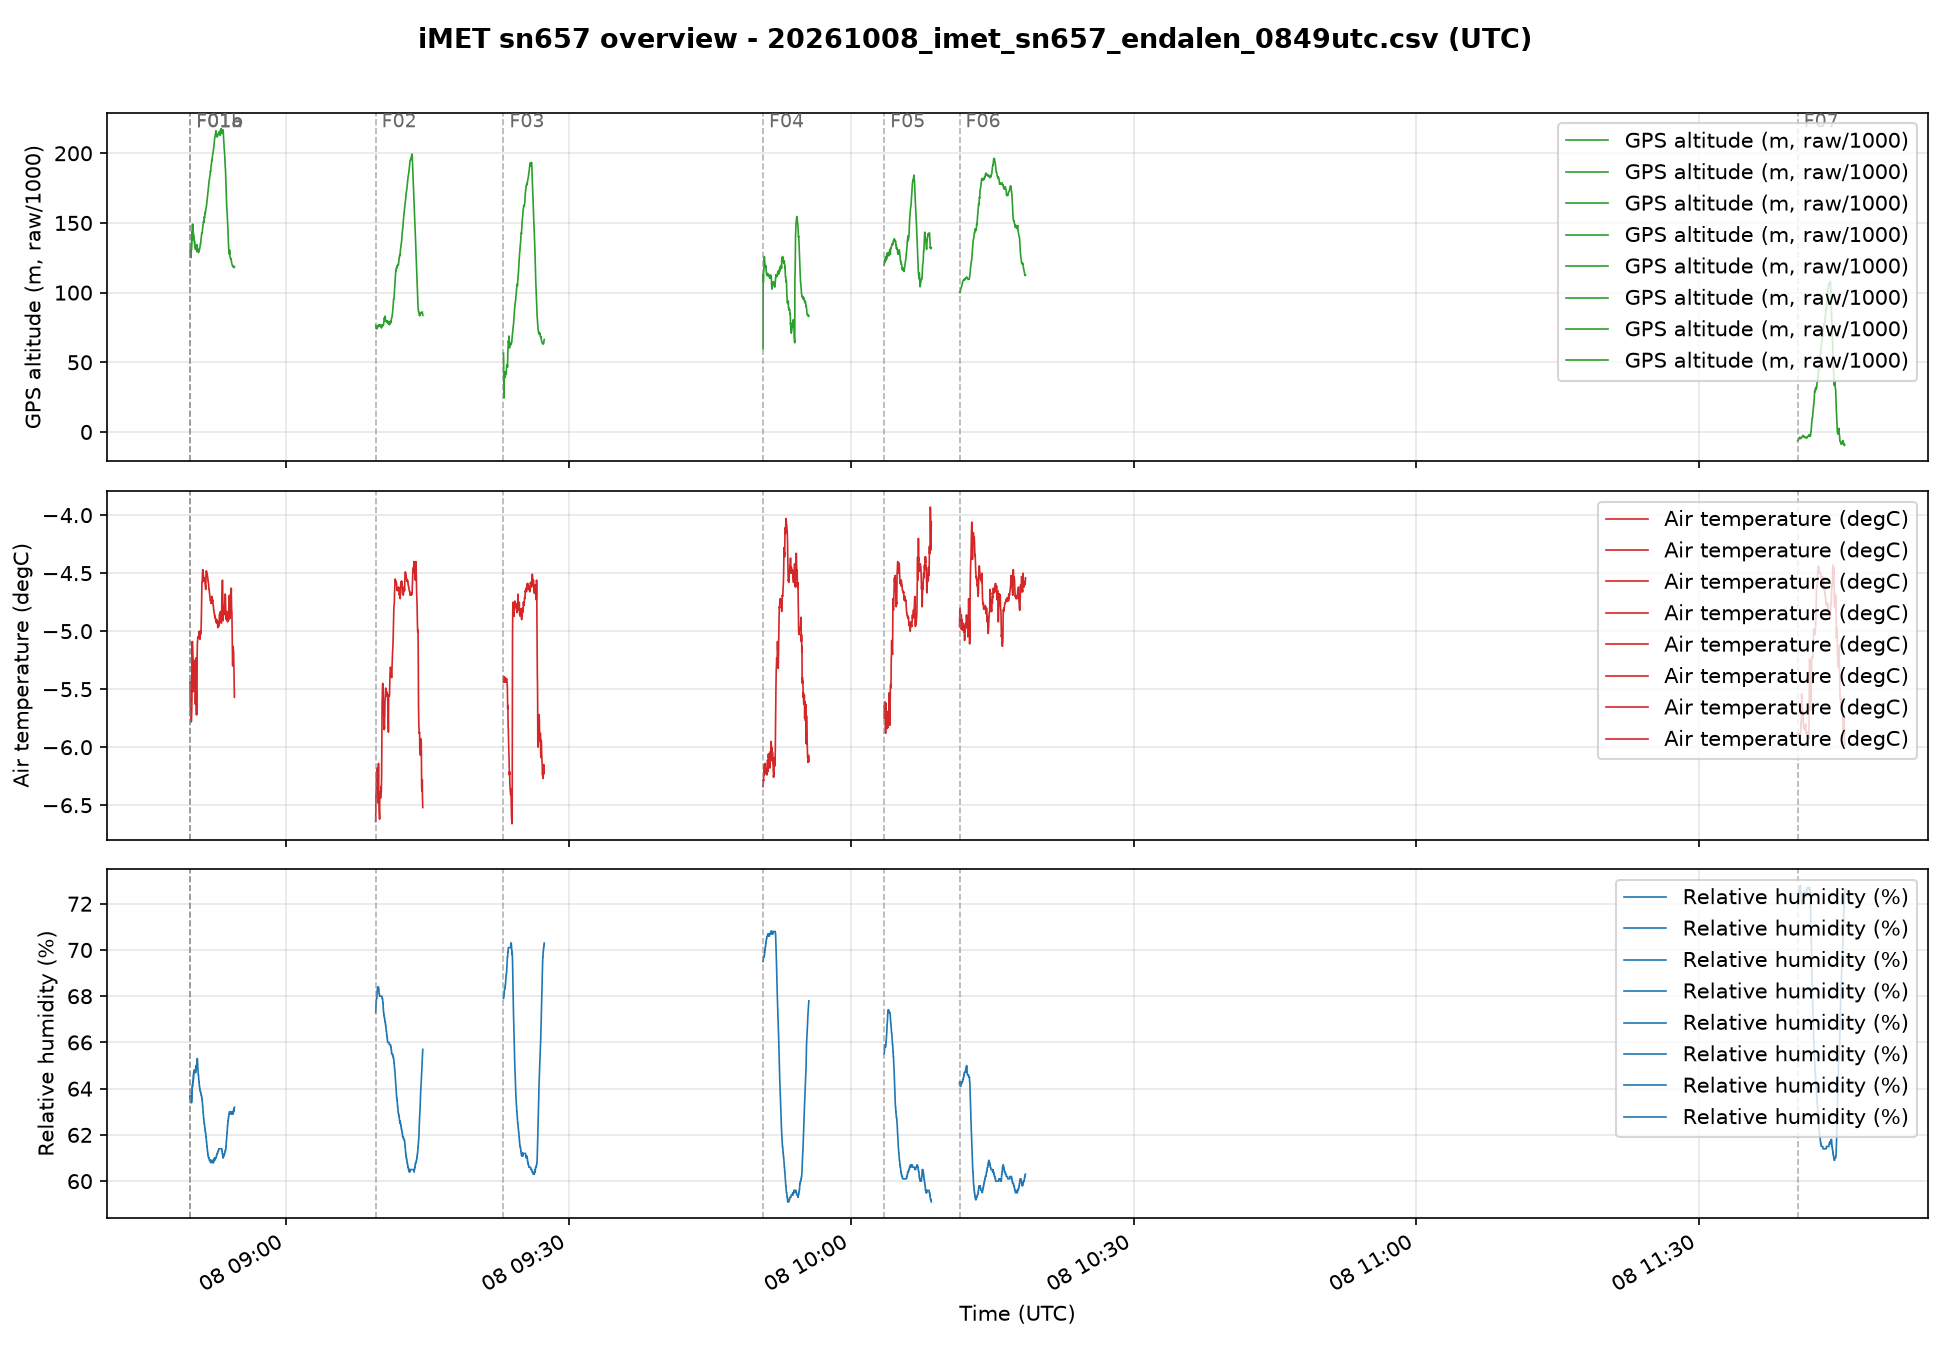
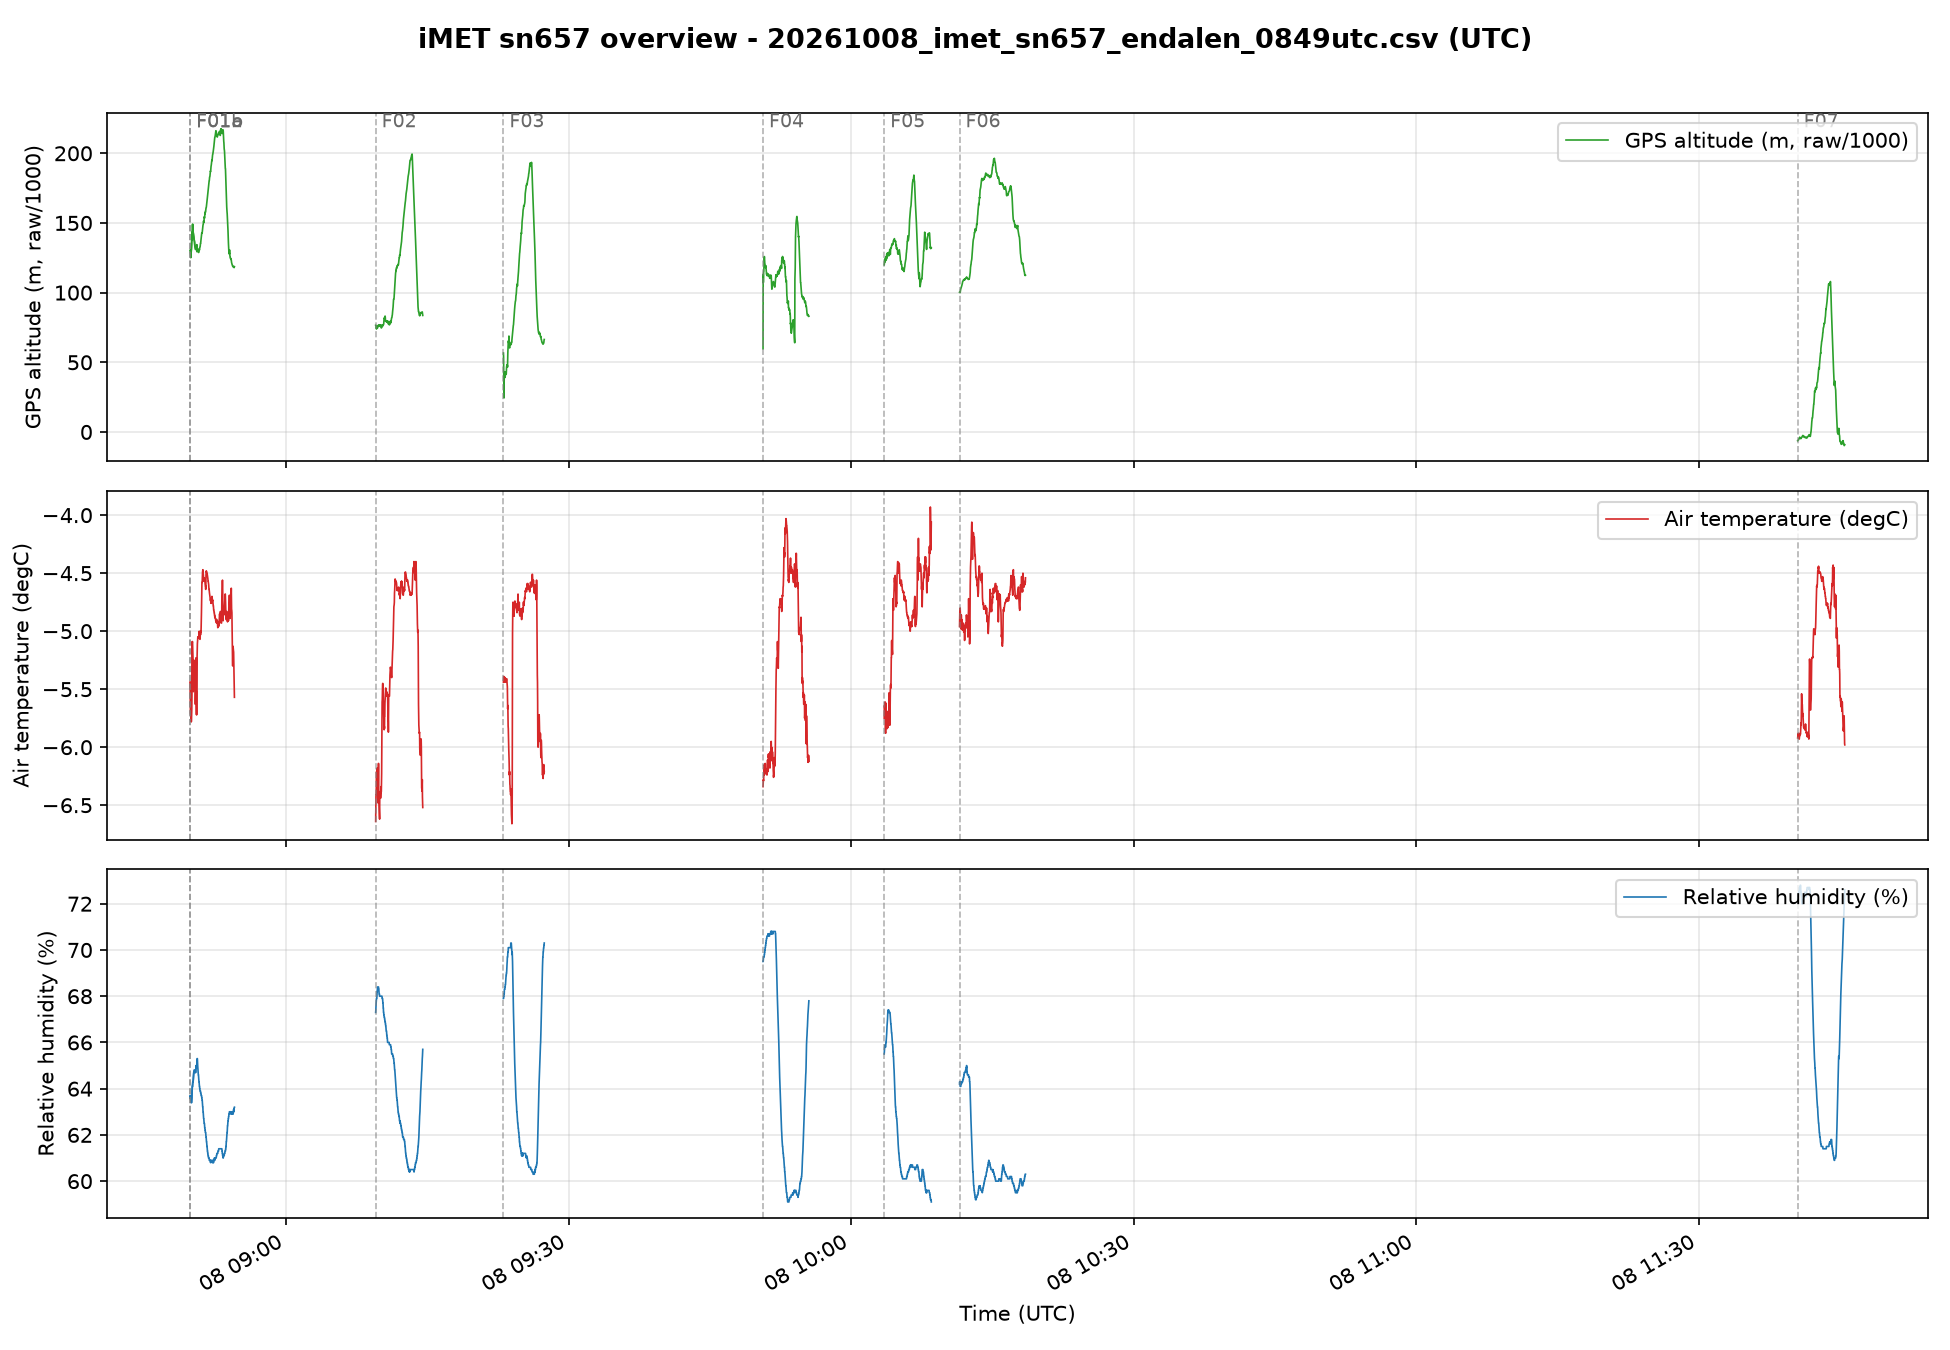
Fix duplicated legend entries in iMET overview plots

Changed region(s): [[0.8308, 0.1244, 0.9846, 0.28], [0.8308, 0.4044, 0.9846, 0.56], [0.8615, 0.6844, 0.9846, 0.84]]

diff --git a/03_data_analysis/src/analyze_drone_data.py b/03_data_analysis/src/analyze_drone_data.py
@@ -311,11 +311,12 @@ def plot_imet_overview(basename, times, cols, segments):
                  fontsize=13, fontweight="bold")
 
     def seg_plot(ax, values, label, color, mask_all):
-        for f, mask in segments:
+        for i, (f, mask) in enumerate(segments):
             v = values[mask]
             t = times[mask]
             ok = np.isfinite(v)
-            ax.plot(t[ok], v[ok], color=color, linewidth=0.8, label=label)
+            ax.plot(t[ok], v[ok], color=color, linewidth=0.8,
+                    label=label if i == 0 else None)
         ax.set_ylabel(label)
         ax.grid(True, alpha=0.3)
         ax.legend(loc="upper right")
